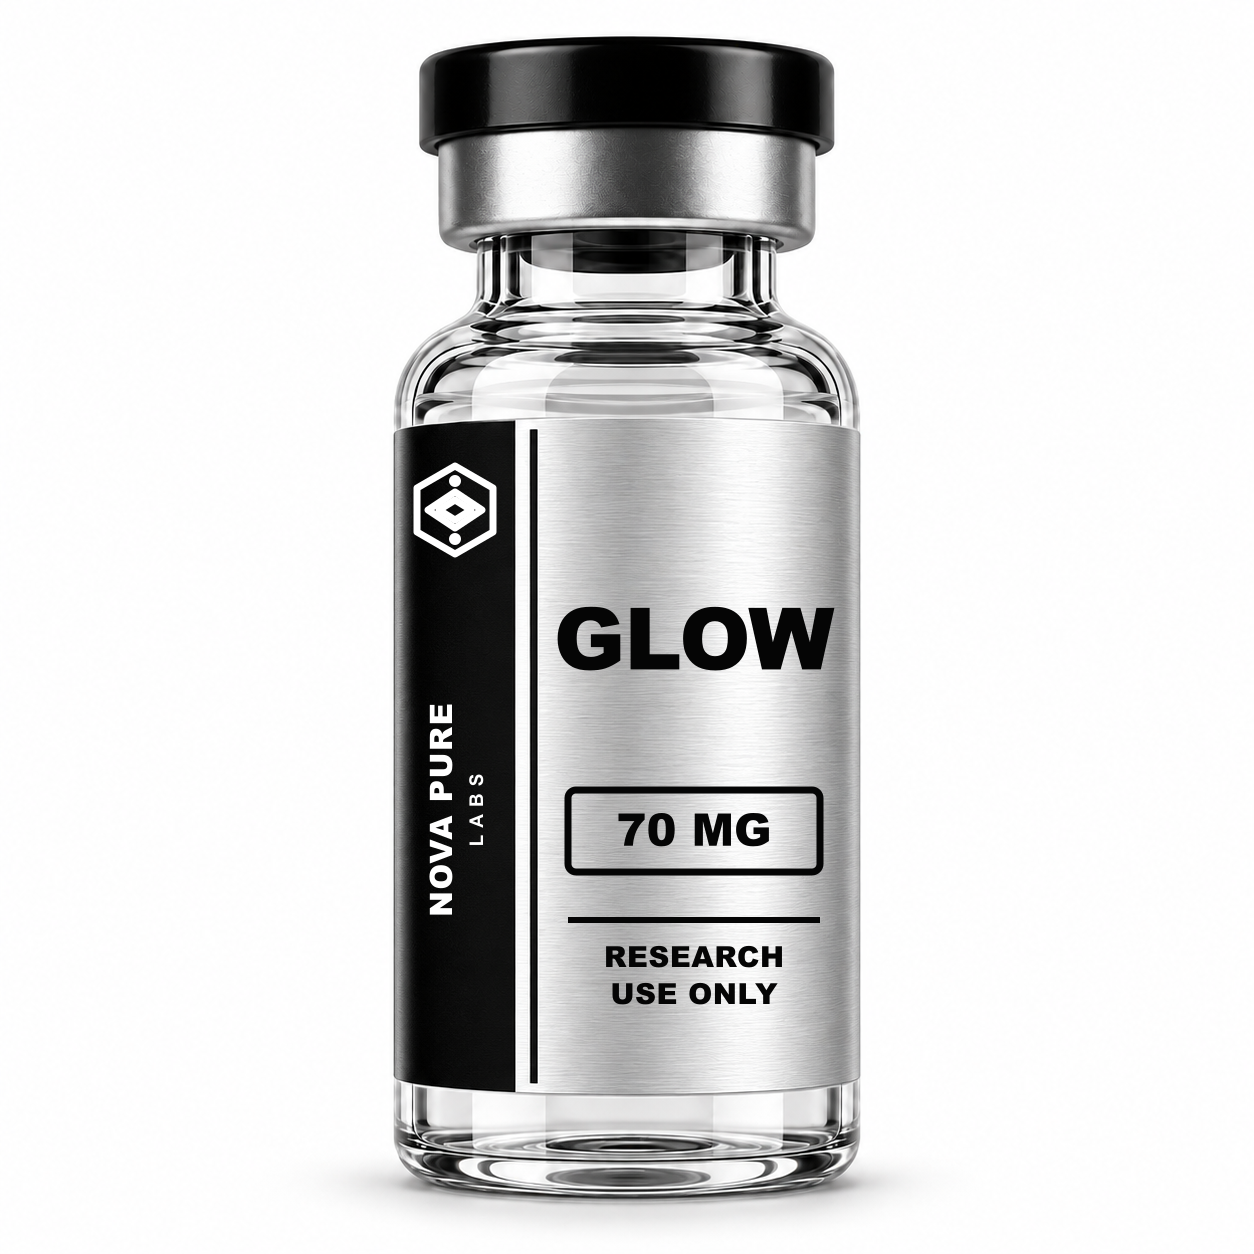
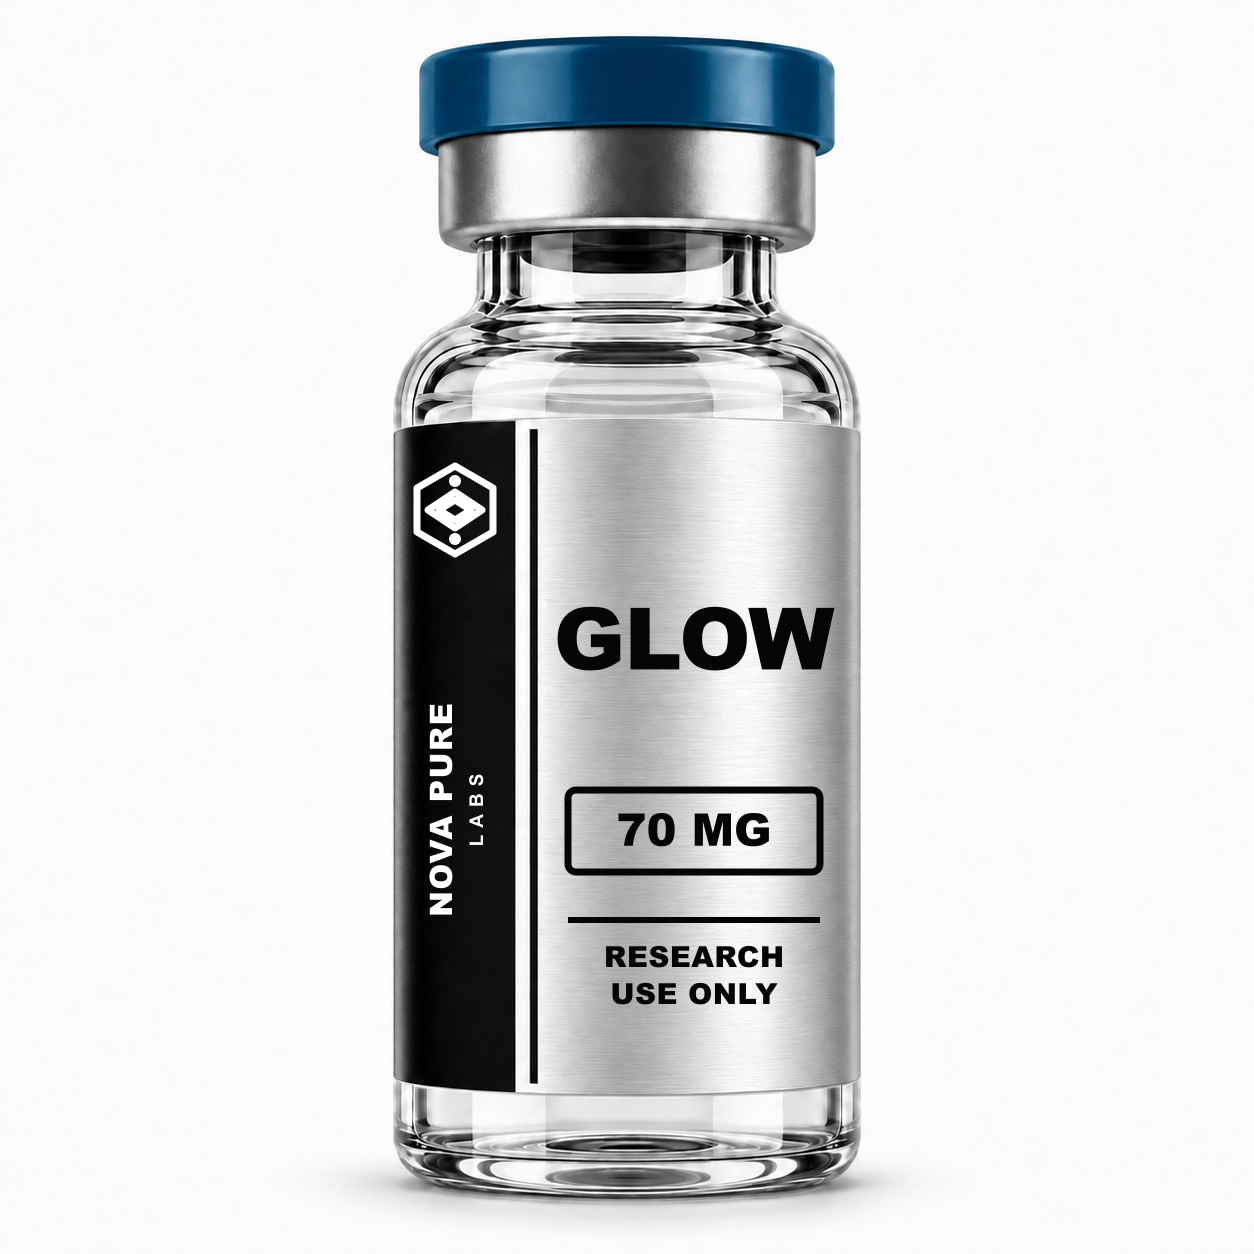
Change product bottle caps to arctic blue

diff --git a/HOMEPAGE_CAROUSEL_AND_VIP_LABEL_PLAN.md b/HOMEPAGE_CAROUSEL_AND_VIP_LABEL_PLAN.md
@@ -22,7 +22,7 @@ Use the supplied VIP-inspired reference as the design direction, without copying
 
 Each catalogue bottle will use:
 
-- the existing clear research vial and black/silver cap;
+- the existing clear research vial with a deep arctic-blue upper cap and metallic silver lower cap band;
 - a silver main label panel;
 - a black vertical brand strip on the left;
 - the Nova Pure Labs symbol plus vertical `NOVA PURE LABS` branding;
